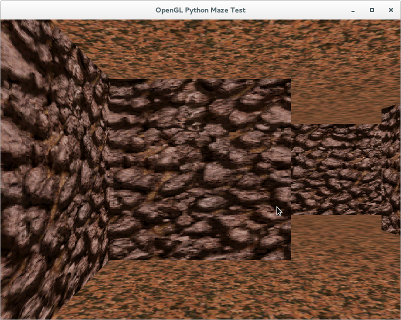
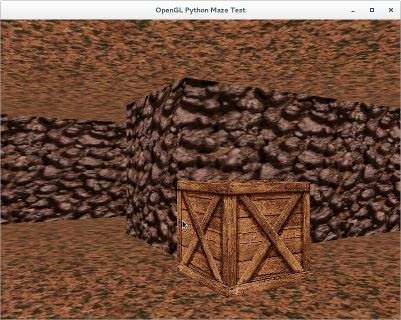
added textured cube to the test. new screenshot

diff --git a/openmm_engine_test.py b/openmm_engine_test.py
@@ -13,8 +13,6 @@ from OpenGL.GLUT import *
 from OpenGL.GLU import *
 from PIL import Image
 
-ESCAPE = '\033'
-
 lm = 0
 window = 0
 ID = 0
@@ -28,6 +26,7 @@ DIRECTION = 1
 
 texture  = 0
 textureWall = 1
+textureCube = 2
 angle = 0
 
 camx = 0
@@ -83,10 +82,10 @@ def keyPressed(*args):
     global X_AXIS,Y_AXIS,Z_AXIS
     global camx, camz,angle
     
-    rot_step = 6
-    mov_step = 0.7
+    rot_step = 7
+    mov_step = 0.8
 
-    if args[0] == ESCAPE:
+    if args[0] == b'\033': # escape
         sys.exit()
 
     if args[0] == b'a':
@@ -104,6 +103,37 @@ def keyPressed(*args):
     if args[0] == b's':
         camx -= math.sin(math.radians(-angle))*mov_step
         camz -= math.cos(math.radians(-angle))*mov_step
+
+def DrawBox(size):
+    glBindTexture(GL_TEXTURE_2D, textureCube);
+    glTranslatef(3.0,-.5,-3.0)
+    glScaled(.4,.4,.4);
+    glBegin(GL_QUADS);
+    glTexCoord2f(0.0, 0.0); glVertex3f(-1.0, -1.0,  1.0);
+    glTexCoord2f(1.0, 0.0); glVertex3f( 1.0, -1.0,  1.0);
+    glTexCoord2f(1.0, 1.0); glVertex3f( 1.0,  1.0,  1.0);
+    glTexCoord2f(0.0, 1.0); glVertex3f(-1.0,  1.0,  1.0);
+    glTexCoord2f(1.0, 0.0); glVertex3f(-1.0, -1.0, -1.0);
+    glTexCoord2f(1.0, 1.0); glVertex3f(-1.0,  1.0, -1.0);
+    glTexCoord2f(0.0, 1.0); glVertex3f( 1.0,  1.0, -1.0);
+    glTexCoord2f(0.0, 0.0); glVertex3f( 1.0, -1.0, -1.0);
+    glTexCoord2f(0.0, 1.0); glVertex3f(-1.0,  1.0, -1.0);
+    glTexCoord2f(0.0, 0.0); glVertex3f(-1.0,  1.0,  1.0);
+    glTexCoord2f(1.0, 0.0); glVertex3f( 1.0,  1.0,  1.0);
+    glTexCoord2f(1.0, 1.0); glVertex3f( 1.0,  1.0, -1.0);
+    glTexCoord2f(1.0, 1.0); glVertex3f(-1.0, -1.0, -1.0);
+    glTexCoord2f(0.0, 1.0); glVertex3f( 1.0, -1.0, -1.0);
+    glTexCoord2f(0.0, 0.0); glVertex3f( 1.0, -1.0,  1.0);
+    glTexCoord2f(1.0, 0.0); glVertex3f(-1.0, -1.0,  1.0);
+    glTexCoord2f(1.0, 0.0); glVertex3f( 1.0, -1.0, -1.0);
+    glTexCoord2f(1.0, 1.0); glVertex3f( 1.0,  1.0, -1.0);
+    glTexCoord2f(0.0, 1.0); glVertex3f( 1.0,  1.0,  1.0);
+    glTexCoord2f(0.0, 0.0); glVertex3f( 1.0, -1.0,  1.0);
+    glTexCoord2f(0.0, 0.0); glVertex3f(-1.0, -1.0, -1.0);
+    glTexCoord2f(1.0, 0.0); glVertex3f(-1.0, -1.0,  1.0);
+    glTexCoord2f(1.0, 1.0); glVertex3f(-1.0,  1.0,  1.0);
+    glTexCoord2f(0.0, 1.0); glVertex3f(-1.0,  1.0, -1.0);
+    glEnd();
 
 def DrawGLScene():
     global X_AXIS,Y_AXIS,Z_AXIS
@@ -173,8 +203,8 @@ def DrawGLScene():
                 glTexCoord2f(1.0, 1.0); glVertex3f(-1.0 + num*2,  1.0,  1.0 - numz*2);
                 glTexCoord2f(0.0, 1.0); glVertex3f(-1.0 + num*2,  1.0, -1.0 - numz*2);
                 glEnd();
-
     glPopMatrix();
+    DrawBox(0.4);
     # X_AXIS = X_AXIS - 0.30
     # Z_AXIS = Z_AXIS - 0.30
     glutSwapBuffers()
@@ -202,7 +232,6 @@ def loadTexture (dirname, sfile, texture):
 
     return texture
 
- 
 def main():
     global window
     global ID 
@@ -219,12 +248,12 @@ def main():
 
     loadTexture ( "bitmaps", "bemob1b", texture )
     loadTexture ( "bitmaps", "bcsctr", textureWall )
+    loadTexture ( "bitmaps", "cblrg", textureCube )
  
     glutDisplayFunc(DrawGLScene)
     glutIdleFunc(DrawGLScene)
     glutKeyboardFunc(keyPressed)
     InitGL(800, 600)
-    #loadImage()
 
     glutMainLoop()
  

diff --git a/README.md b/README.md
@@ -8,7 +8,7 @@ Might and Magic 6-7-8 engine attempt.
 
 Comments
 ========
-This is one of my first python project.
+This is one of my first python projects.
 
 Don't be shocked if you find the code horrorific, I don't know the language very well. ( I know C/C++ )
 
@@ -20,7 +20,7 @@ I'm doing this work for fun contact me if you want to help ;)
 The current work is very raw and there is no actual engine but mostly tests of modules, random code.
 
 I found very helpful the documentations and the code of other projects like mm_mapview, mm8leveleditor, mm7view, and the new mm7 reverse engineering.
-also this link: ![mm6_regengedanken.de](http://rewiki.regengedanken.de/wiki/Might_and_Magic_6)
+also this link: http://rewiki.regengedanken.de/wiki/Might_and_Magic_6
 
 Requirements
 ========
